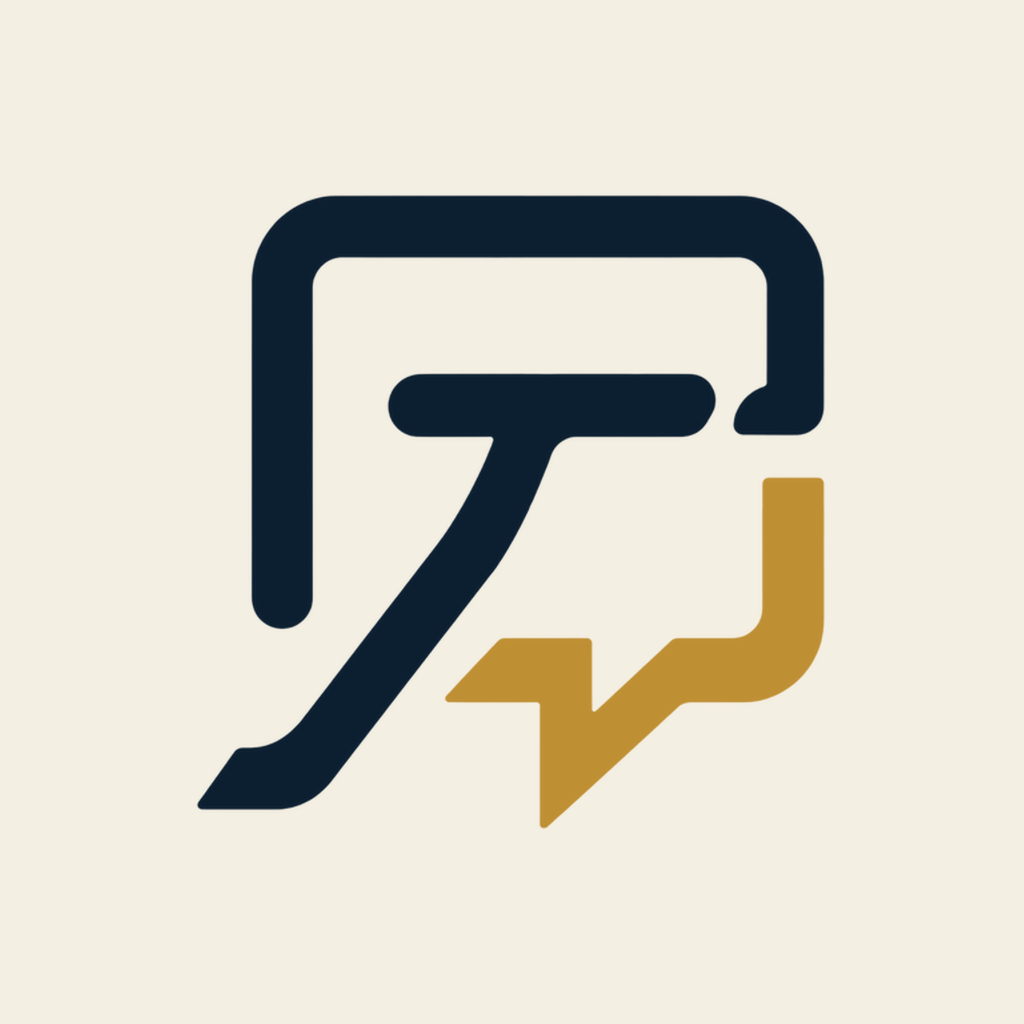
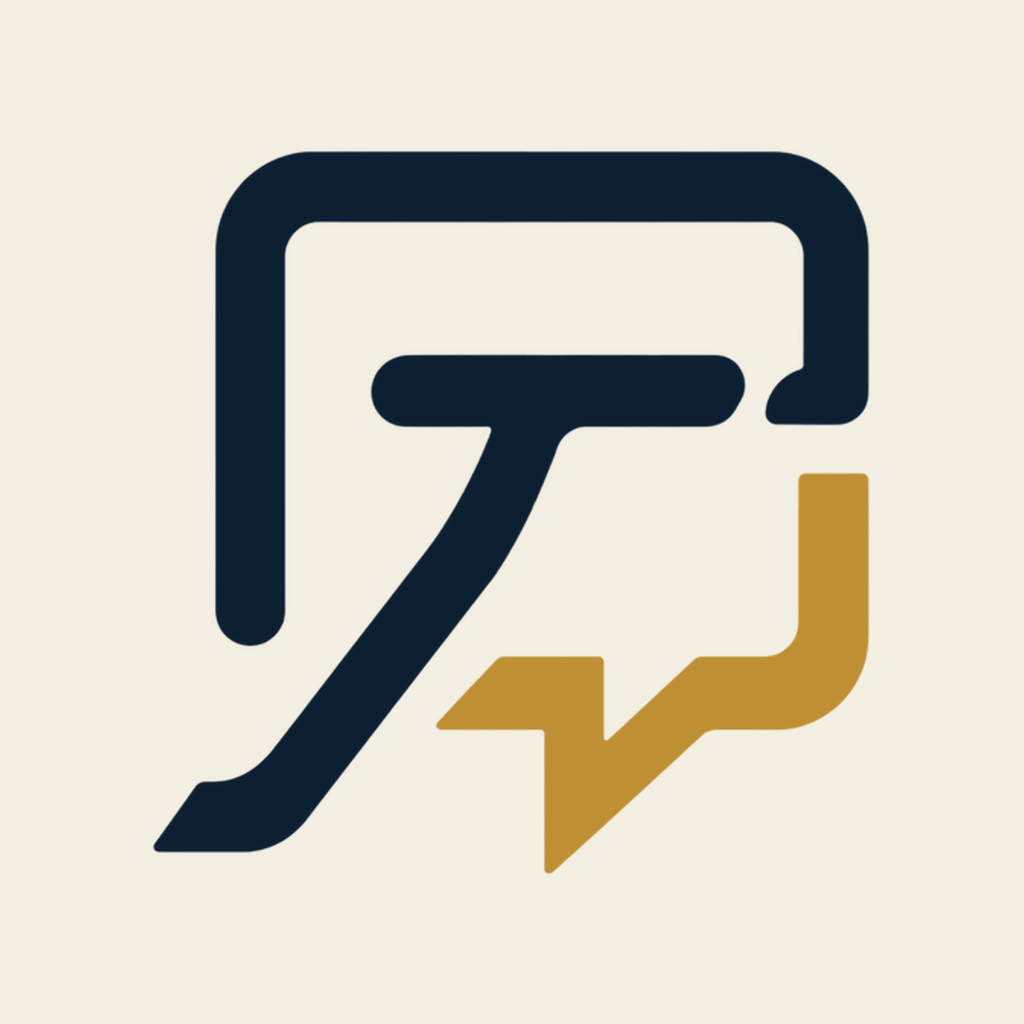
feat: la marca ocupa mas en el icono, y Cuenta empieza por la gente
El icono de iOS va de 0,613 a 0,70: la marca es casi cuadrada y va
centrada, asi que sus esquinas siguen cayendo dentro del redondeo del
sistema, y a 0,613 se veia pequena entre tanto margen.

De paso, el primer plano de Android pasa por el mismo escalado aunque el
factor salga 1. PARTE_ANDROID era un numero que no hacia nada: tocarlo
para agrandar ese icono no habria cambiado una coma, y eso es una trampa
para el siguiente que lo intente. Los PNG de Android salen identicos.

En Cuenta, la gente va primero y el centro al final. La direccion y el
horario del propio centro son lo unico de esa pantalla que ya te sabes:
nadie abre su app para enterarse de donde trabaja. Estaban arriba del
todo porque es lo primero que manda el servidor, que no es una razon. Y
el horario, siete renglones que casi nunca se miran, detras de un toque:
el que se consulta es el de una persona, y ese esta en su ficha.

diff --git a/src/app/(tabs)/cuenta.tsx b/src/app/(tabs)/cuenta.tsx
@@ -1,6 +1,6 @@
 import Ionicons from '@expo/vector-icons/Ionicons';
 import { router } from 'expo-router';
-import { useCallback } from 'react';
+import { useCallback, useState } from 'react';
 import {
   ActivityIndicator, Linking, Pressable, RefreshControl, ScrollView, StyleSheet, Text, View,
 } from 'react-native';
@@ -20,10 +20,16 @@ import { colors, radius, space } from '@/lib/theme';
  * panel viendo las consecuencias, no de pie entre dos pacientes. Aquí se viene a
  * mirar «¿quién trabaja el jueves por la tarde?», que es la pregunta que te hace
  * un paciente delante.
+ *
+ * Por eso la gente va primero y el centro al final. La dirección y el horario
+ * del propio centro son lo único de esta pantalla que ya te sabes: nadie abre
+ * su app para enterarse de dónde trabaja. Estaban arriba del todo porque es lo
+ * primero que manda el servidor, que no es una razón.
  */
 export default function CuentaScreen() {
   const insets = useSafeAreaInsets();
   const { usuario, salir } = useSession();
+  const [verHorario, setVerHorario] = useState(false);
   const { datos, error, refrescando, refrescar } = useDatos(
     useCallback((token: string) => endpoints.centro(token), []),
   );
@@ -62,23 +68,6 @@ export default function CuentaScreen() {
         <ActivityIndicator color={colors.brand} style={styles.cargando} />
       ) : (
         <>
-          <Card style={styles.bloqueCaja}>
-            {centro.direccion ? (
-              <Dato icono="location-outline" texto={centro.direccion} />
-            ) : null}
-            {centro.telefono ? <Dato icono="call-outline" texto={centro.telefono} /> : null}
-            <Horario dias={centro.horario} vacio="Sin horario guardado." />
-            {centro.maps_url ? (
-              <Pressable
-                accessibilityRole="button"
-                onPress={() => Linking.openURL(centro.maps_url)}
-                style={({ pressed }) => [styles.enlace, pressed && { opacity: 0.7 }]}>
-                <Ionicons name="navigate-outline" size={16} color={colors.brandDark} />
-                <Text style={styles.enlaceTexto}>Cómo llegar</Text>
-              </Pressable>
-            ) : null}
-          </Card>
-
           {hayClases && instructores ? (
             <Bloque titulo={instructores.length === 1 ? 'Instructor' : 'Instructores'}>
               {instructores.length === 0 ? (
@@ -192,6 +181,40 @@ export default function CuentaScreen() {
               ))}
             </Bloque>
           ) : null}
+
+          <Bloque titulo="El centro">
+            {centro.direccion ? (
+              <Dato icono="location-outline" texto={centro.direccion} />
+            ) : null}
+            {centro.telefono ? <Dato icono="call-outline" texto={centro.telefono} /> : null}
+            {centro.maps_url ? (
+              <Pressable
+                accessibilityRole="button"
+                onPress={() => Linking.openURL(centro.maps_url)}
+                style={({ pressed }) => [styles.enlace, pressed && { opacity: 0.7 }]}>
+                <Ionicons name="navigate-outline" size={16} color={colors.brandDark} />
+                <Text style={styles.enlaceTexto}>Cómo llegar</Text>
+              </Pressable>
+            ) : null}
+            {/* El horario del centro son siete renglones que casi nunca se
+                miran: lo que se consulta es el de una persona, y ese está en
+                su ficha. Detrás de un toque para quien lo busque. */}
+            <Pressable
+              accessibilityRole="button"
+              accessibilityState={{ expanded: verHorario }}
+              onPress={() => setVerHorario(!verHorario)}
+              style={({ pressed }) => [styles.enlace, pressed && { opacity: 0.7 }]}>
+              <Ionicons
+                name={verHorario ? 'chevron-up' : 'chevron-down'}
+                size={16}
+                color={colors.brandDark}
+              />
+              <Text style={styles.enlaceTexto}>
+                {verHorario ? 'Ocultar el horario' : 'Ver el horario del centro'}
+              </Text>
+            </Pressable>
+            {verHorario ? <Horario dias={centro.horario} vacio="Sin horario guardado." /> : null}
+          </Bloque>
         </>
       )}
 

diff --git a/scripts/iconos.py b/scripts/iconos.py
@@ -39,10 +39,16 @@ CREMA = (244, 239, 227)
 TINTA = (12, 31, 49)
 ORO = (191, 143, 51)
 
-# Lo que ocupa la marca dentro de cada lienzo. Son los dos números que ya tenían
-# los iconos buenos: el de iOS va a sangre y el de Android tiene que caber en la
-# zona segura, porque el lanzador recorta el icono a un círculo.
-PARTE_IOS = 0.613
+# Lo que ocupa la marca dentro de cada lienzo.
+#
+# El de iOS va a sangre: el sistema ya lo redondea, y la marca es casi cuadrada
+# y va centrada, así que a 0,70 sus esquinas siguen cayendo dentro del
+# redondeo. A 0,613 se veía pequeña entre tanto margen.
+#
+# El de Android no se escala: las máscaras ya vienen a su tamaño, que es
+# justamente este, y tiene que caber en la zona segura porque el lanzador
+# recorta el icono a un círculo.
+PARTE_IOS = 0.70
 PARTE_ANDROID = 0.460
 
 LADO = 1024
@@ -95,9 +101,13 @@ def icono_ios():
 def primer_plano():
     """El primer plano de Android: la marca sola, sobre nada."""
     trazo, acento = mascaras()
+    # Se escala igual que el de iOS aunque el factor salga 1: así PARTE_ANDROID
+    # manda de verdad. Antes era un número que no hacía nada, y tocarlo para
+    # agrandar el icono de Android no habría cambiado una coma.
+    factor = factor_para(trazo, acento, PARTE_ANDROID)
     img = Image.new('RGBA', (LADO, LADO), (0, 0, 0, 0))
-    pintar(img, trazo, TINTA)
-    pintar(img, acento, ORO)
+    pintar(img, escalar(trazo, factor), TINTA)
+    pintar(img, escalar(acento, factor), ORO)
     return img
 
 
